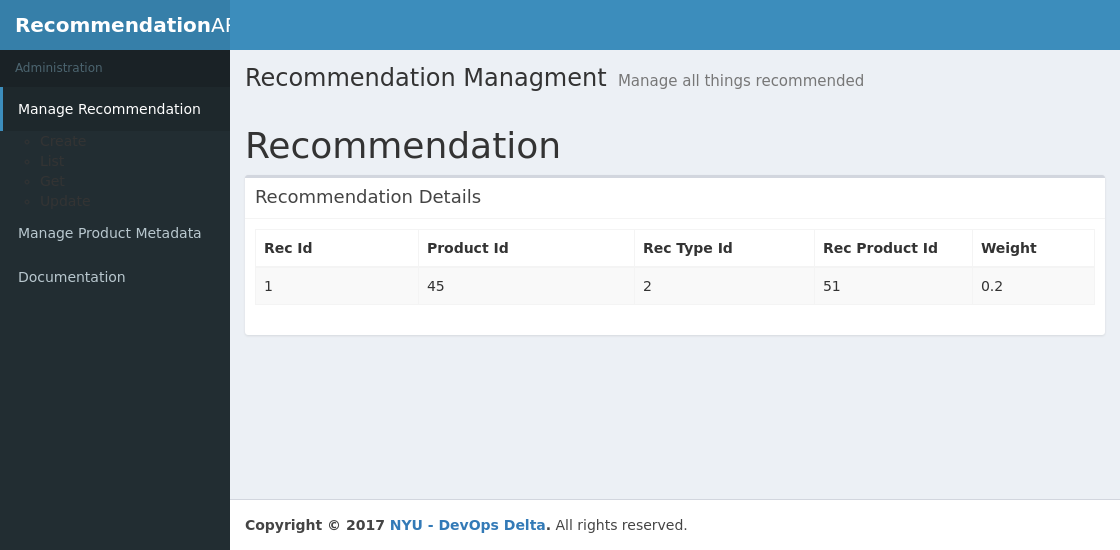
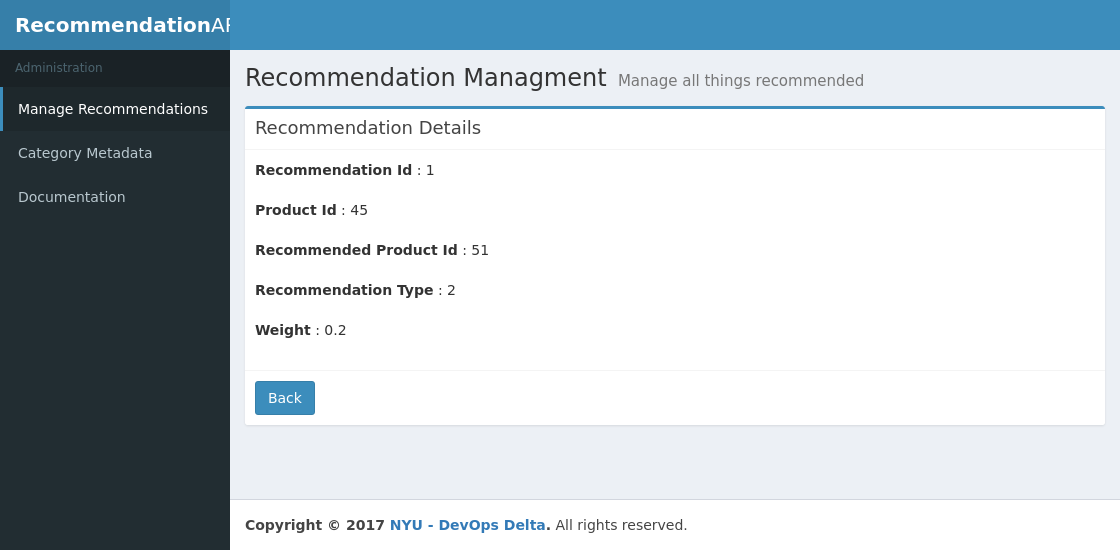
fixed detail.html to support bdd (no more hidden values) modified steps to address this

diff --git a/app/templates/manage/detail.html b/app/templates/manage/detail.html
@@ -15,31 +15,41 @@
             <div class="box-body">
                 <div class="form-group">
                     <label>Recommendation Id</label>
-                    <input type="text" class="form-control" id="rec_id" disabled value="{{detail_id}}" />
+                    <!-- <input type="text" class="form-control" id="rec_id" disabled value="{{detail_id}}" /> -->
+                    <span>: </span>
+                    <span id = "rec_id" >{{detail_id}}</span>
                 </div>
                 <div class="form-group">
                     <label for="product_id">Product Id</label>
-                    <input type="number" class="form-control" id="product_id" disabled value="{{product_id}}">
+                    <!-- <input type="number" class="form-control" id="product_id" disabled value="{{product_id}}"> -->
+                    <span>: </span>
+                    <span id = "product_id" >{{product_id}}</span>
                 </div>
                 <div class="form-group">
                     <label for="rec_product_id">Recommended Product Id</label>
-                    <input type="number" class="form-control" id="rec_product_id" disabled value="{{rec_product_id}}">
+                    <!-- <input type="number" class="form-control" id="rec_product_id" disabled value="{{rec_product_id}}"> -->
+                    <span>: </span>
+                    <span id = "rec_product_id">{{rec_product_id}}</span>
                 </div>
                 <div class="form-group">
                     <div class="form-group">
                         <label>Recommendation Type</label>
-                        <select class="form-control" id="rec_type_id">
+                        <!-- <select class="form-control" id="rec_type_id">
                             <option value="1" {{ 'selected' if rec_type == 1 else '' }}>Up-Sell</option>
                             <option value="2" {{ 'selected' if rec_type == 2 else '' }}>Accessory</option>
                             <optgroup label="Deactivated" disabled>
                                     <option value="3">Cross-Sell</option>
                                 </optgroup>
-                        </select>
+                        </select> -->
+                        <span>: </span>
+                        <span id = "rec_type">{{rec_type}}</span>
                     </div>
                 </div>
                 <div class="form-group">
                     <label for="weight">Weight</label>
-                    <input type="number" class="form-control" id="weight" disabled value="{{weight}}">
+                    <!-- <input type="number" class="form-control" id="weight" disabled value="{{weight}}"> -->
+                    <span>: </span>
+                    <span id = "weight">{{weight}}</span>
                 </div>
             </div>
             <div class="box-footer">

diff --git a/features/steps/recommendations_steps.py b/features/steps/recommendations_steps.py
@@ -56,12 +56,14 @@ def step_impl(context):
 
 @when(u'I visit the "Recommendation Details" page for recommendation detail "{message}"')
 def step_impl(context,message):
-    context.driver.get(context.base_url+"/recommendations/detail/{message}")
+    context.driver.get(context.base_url+"/recommendations/detail/"+message)
+    context.driver.save_screenshot('line60.png')
 
 @then(u'I will see a "rec_id" with "1" in my results')
 def step_impl(context):
     context.driver.get(context.base_url+"/recommendations/detail/1")
     found = WebDriverWait(context.driver, WAIT_SECONDS).until(expected_conditions.presence_of_element_located((By.ID, 'rec_id')))
+    context.driver.save_screenshot('line66.png')
     assert found.text == '1'
     assert found.text != 'batman'
     context.driver.save_screenshot('line67.png')
@@ -77,10 +79,12 @@ def step_impl(context):
 @then(u'I will see a "rec_type_id" with "2" in my results')
 def step_impl(context):
     context.driver.get(context.base_url+"/recommendations/detail/1")
-    found = WebDriverWait(context.driver, WAIT_SECONDS).until(expected_conditions.presence_of_element_located((By.ID, 'rec_type_id')))
+    found = WebDriverWait(context.driver, WAIT_SECONDS).until(expected_conditions.presence_of_element_located((By.ID, 'rec_type')))
+    context.driver.save_screenshot('line84.png')
+    print (found.text)
+
     assert found.text == '2'
     assert found.text != 'batman'
-    context.driver.save_screenshot('GetTest.png')
 
 @then(u'I will see a "rec_product_id" with "51" in my results')
 def step_impl(context):
